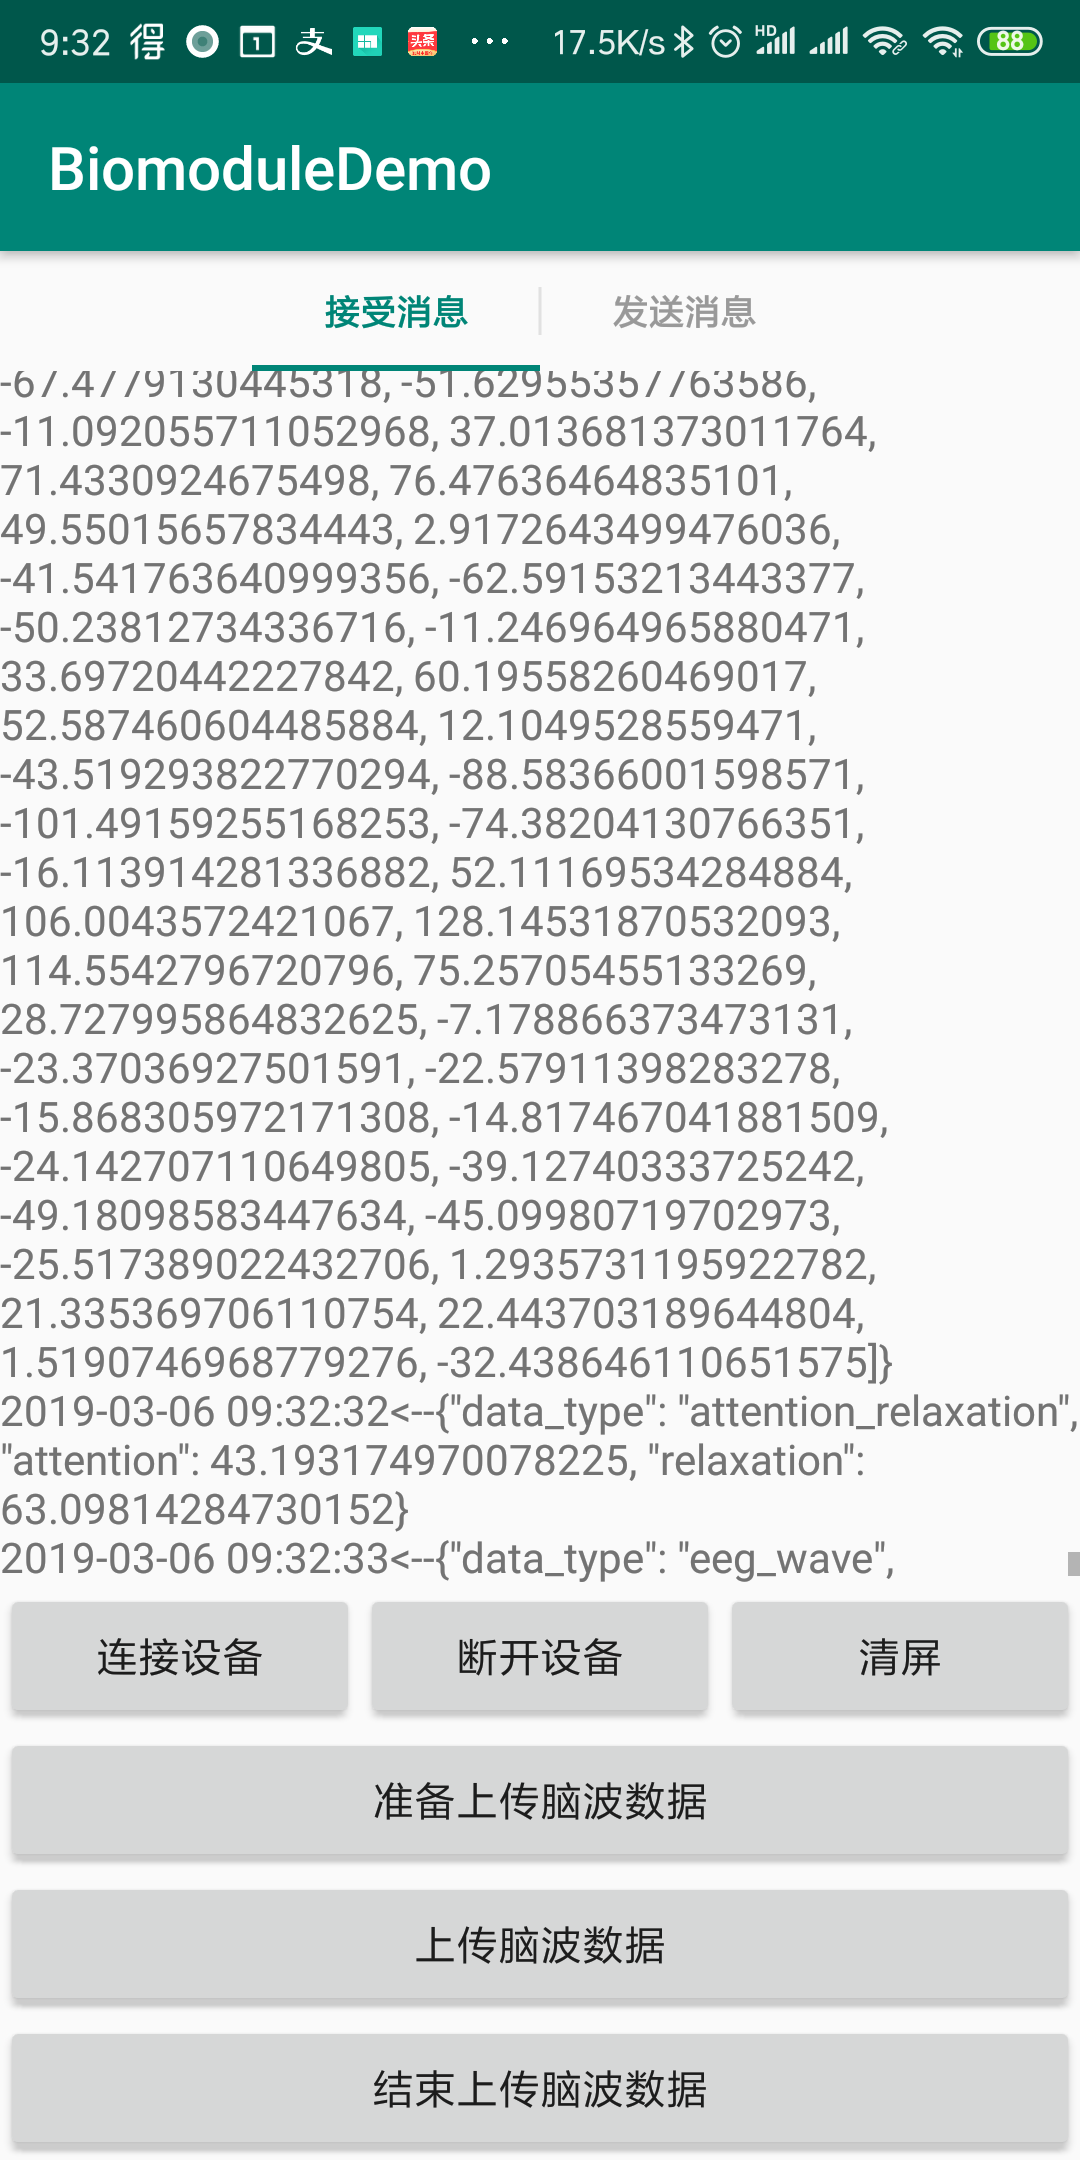
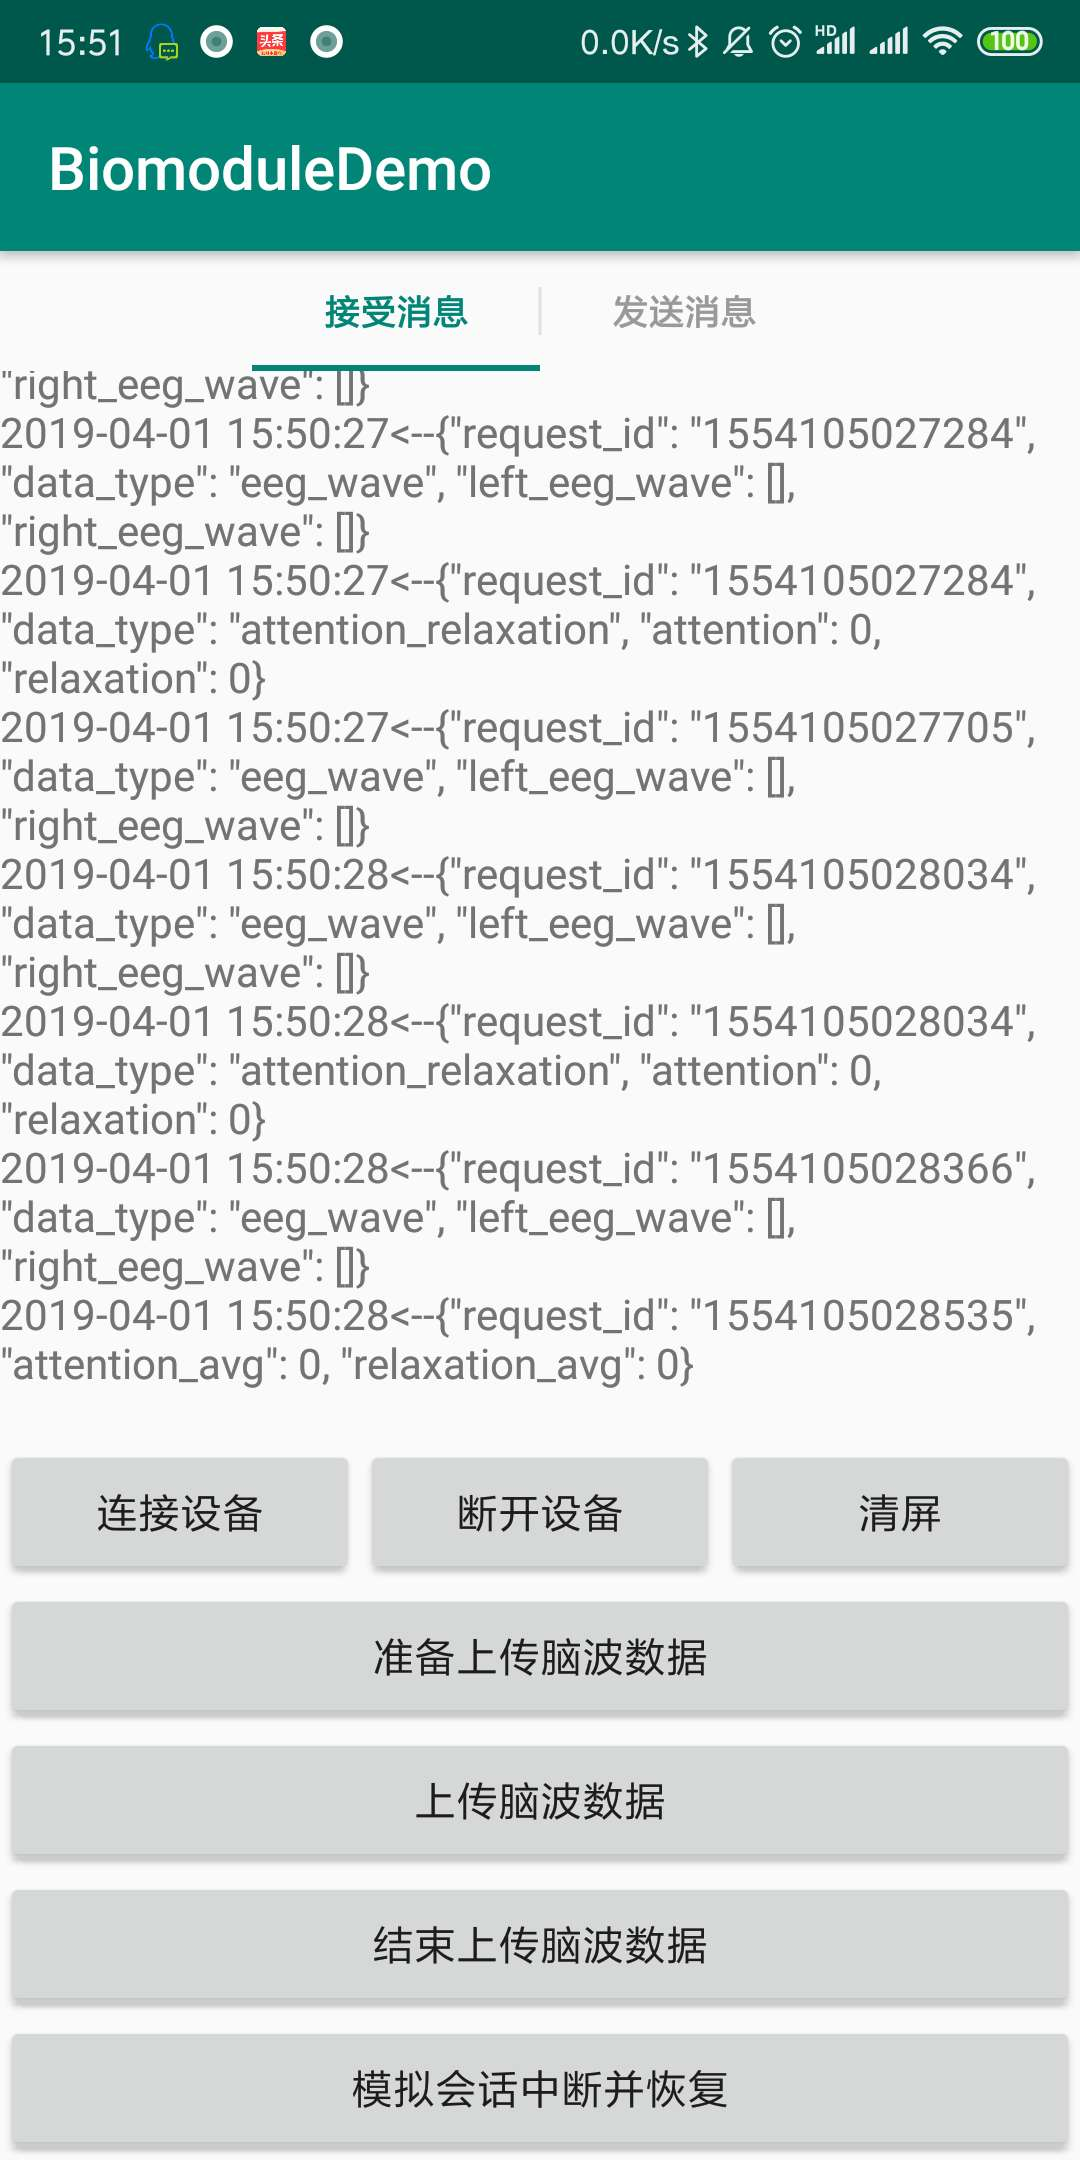
增加会话中断恢复

diff --git a/app/src/main/java/cn/entertech/biomoduledemo/MainActivity.kt b/app/src/main/java/cn/entertech/biomoduledemo/MainActivity.kt
@@ -23,7 +23,7 @@ class MainActivity : AppCompatActivity() {
     private lateinit var messageSendFragment: MessageSendFragment
     lateinit var vpContainer: ViewPager
     lateinit var pagerSlidingTabStrip: PagerSlidingTabStrip
-    lateinit var requestId:String
+    lateinit var sessionId:String
     override fun onCreate(savedInstanceState: Bundle?) {
         super.onCreate(savedInstanceState)
         setContentView(R.layout.activity_main)
@@ -59,6 +59,13 @@ class MainActivity : AppCompatActivity() {
     }
 
     var brainDataCallback = fun(result: String) {
+        if (result.contains("session_id")){
+            var startResponse = Gson().fromJson<StartResponse>(result,StartResponse::class.java)
+            Logger.d("start response is $startResponse")
+            if (startResponse.session_id != null){
+                sessionId = startResponse.session_id
+            }
+        }
         messageReceiveFragment.appendMessageToScreen(result)
     }
 
@@ -89,7 +96,7 @@ class MainActivity : AppCompatActivity() {
             messageReceiveFragment.appendMessageToScreen("扫描设备成功")
             Logger.d("扫描设备成功")
         }, fun(mac: String) {
-
+            flowtimeBleManager.addRawDataListener(rawListener)
             messageReceiveFragment.appendMessageToScreen("连接成功$mac")
             Logger.d("连接成功$mac")
             runOnUiThread {
@@ -105,17 +112,17 @@ class MainActivity : AppCompatActivity() {
     }
 
     fun onDisconnet(view: View) {
+        flowtimeBleManager.removeRawDataListener(rawListener)
         flowtimeBleManager.disConnect()
     }
 
     fun start(view: View) {
-        requestId = "${System.currentTimeMillis()}"
         if (!flowtimeBleManager.isConnected()) {
             Toast.makeText(this, "请先连接设备", Toast.LENGTH_SHORT).show()
             return
         }
         var dataEntity = DataEntity()
-        dataEntity.request_id = requestId
+        dataEntity.request_id = "${System.currentTimeMillis()}"
         dataEntity.command = "start"
         dataEntity.device_id = "A0"
         var json = Gson().toJson(dataEntity)
@@ -128,7 +135,6 @@ class MainActivity : AppCompatActivity() {
             Toast.makeText(this, "请先连接设备", Toast.LENGTH_SHORT).show()
             return
         }
-        flowtimeBleManager.addRawDataListener(rawListener)
         flowtimeBleManager.startBrainCollection()
     }
 
@@ -138,15 +144,29 @@ class MainActivity : AppCompatActivity() {
             return
         }
         flowtimeBleManager.stopBrainCollection()
-        flowtimeBleManager.removeRawDataListener(rawListener)
         var dataEntity = DataEntity()
         dataEntity.command = "finish"
-        dataEntity.request_id = requestId
+        dataEntity.request_id = "${System.currentTimeMillis()}"
         var json = Gson().toJson(dataEntity)
         messageSendFragment.appendMessageToScreen(json + "\r\n")
         socketManager.sendMessage(json)
         socketManager.stopRead()
         socketManager.connectBrainDataSocket()
+    }
+
+    fun restore(view:View){
+        flowtimeBleManager.stopBrainCollection()
+        socketManager.stopRead()
+        socketManager.disconnectBrainSocket()
+        socketManager.connectBrainDataSocket(fun(){
+            var dataEntity = DataEntity()
+            dataEntity.request_id = "${System.currentTimeMillis()}"
+            dataEntity.command = "restore"
+            dataEntity.session_id = sessionId
+            var json = Gson().toJson(dataEntity)
+            messageSendFragment.appendMessageToScreen(json + "\r\n")
+            socketManager.sendMessage(json)
+        })
     }
 
 
@@ -180,7 +200,7 @@ class MainActivity : AppCompatActivity() {
             if (socketBuffer.size >= 600) {
                 var dataEntity = DataEntity()
                 dataEntity.command = "process"
-                dataEntity.request_id = requestId
+                dataEntity.request_id = "${System.currentTimeMillis()}"
                 dataEntity.data = socketBuffer.toIntArray()
                 var json = Gson().toJson(dataEntity)
                 messageSendFragment.appendMessageToScreen(json + "\r\n")

diff --git a/app/src/main/java/cn/entertech/biomoduledemo/SocketManager.kt b/app/src/main/java/cn/entertech/biomoduledemo/SocketManager.kt
@@ -10,7 +10,8 @@ import java.net.Socket
 
 class SocketManager() {
     var mBrainDataSocket: Socket? = null
-    val SOCKET_ADDRESS: String = "api.affectivecloud.com"
+//    val SOCKET_ADDRESS: String = "api.affectivecloud.com"
+    val SOCKET_ADDRESS: String = "test.affectivecloud.com"
     val BRAIN_DATA_SOCKET_PORT: Int = 8080
     var handlerThread: HandlerThread
     var handler: Handler
@@ -41,16 +42,22 @@ class SocketManager() {
     }
 
     fun connectBrainDataSocket() {
+        connectBrainDataSocket(null)
+    }
+
+    fun connectBrainDataSocket(connectSuccess:(()->Unit)?) {
         Thread(Runnable {
             mBrainDataSocket = Socket()
             mBrainDataSocket?.connect(InetSocketAddress(SOCKET_ADDRESS, BRAIN_DATA_SOCKET_PORT))
             Logger.d("socket connect state: " + mBrainDataSocket?.isConnected)
+            if (mBrainDataSocket!!.isConnected){
+                connectSuccess?.invoke()
+            }
             inputStream = mBrainDataSocket?.getInputStream()
             bufferedReader = BufferedReader(InputStreamReader(inputStream))
             isRead = true
             readMessageFromServer()
         }).start()
-
     }
 
     private var isRead = false
@@ -59,14 +66,18 @@ class SocketManager() {
     }
 
     fun readMessageFromServer() {
-        while (isRead) {
-            var result = bufferedReader?.readLine()
-            if (result != null) {
-                brainDataCallback.forEach {
-                    it.invoke(result)
+        try {
+            while (isRead) {
+                var result = bufferedReader?.readLine()
+                if (result != null) {
+                    brainDataCallback.forEach {
+                        it.invoke(result)
+                    }
+                    Logger.d("receive data from server: $result")
                 }
-                Logger.d("receive data from server: $result")
             }
+        }catch (e:Exception){
+           e.printStackTrace()
         }
     }
 
@@ -96,7 +107,9 @@ class SocketManager() {
 
 
     fun disconnectBrainSocket() {
+        mBrainDataSocket?.shutdownInput()
         mBrainDataSocket?.close()
+
     }
 
 }

diff --git a/app/src/main/java/cn/entertech/biomoduledemo/StartResponse.java b/app/src/main/java/cn/entertech/biomoduledemo/StartResponse.java
@@ -1,0 +1,30 @@
+package cn.entertech.biomoduledemo;
+
+public class StartResponse {
+    private String request_id;
+    private String session_id;
+
+    public String getRequest_id() {
+        return request_id;
+    }
+
+    public void setRequest_id(String request_id) {
+        this.request_id = request_id;
+    }
+
+    public String getSession_id() {
+        return session_id;
+    }
+
+    public void setSession_id(String session_id) {
+        this.session_id = session_id;
+    }
+
+    @Override
+    public String toString() {
+        return "StartResponse{" +
+                "request_id='" + request_id + '\'' +
+                ", session_id='" + session_id + '\'' +
+                '}';
+    }
+}

diff --git a/app/src/main/java/cn/entertech/biomoduledemo/DataEntity.java b/app/src/main/java/cn/entertech/biomoduledemo/DataEntity.java
@@ -6,6 +6,7 @@ public class DataEntity {
     private String request_id;
     private String command;
     private String device_id;
+    private String session_id;
     private int[] data;
 
     public String getCommand() {
@@ -49,5 +50,13 @@ public class DataEntity {
 
     public void setRequest_id(String request_id) {
         this.request_id = request_id;
+    }
+
+    public String getSession_id() {
+        return session_id;
+    }
+
+    public void setSession_id(String session_id) {
+        this.session_id = session_id;
     }
 }

diff --git a/README.md b/README.md
@@ -16,6 +16,7 @@
 * 连接设备后，点击 `准备上传脑波数据` 发送 `start` 命令到服务器开启一个会话；
 * 开启会话后可点击`上传脑波数据`进行脑波数据上传；
 * 点击`结束上传脑波数据`可结束当前会话。
+* 点击`模拟会话中断并恢复`可实现模拟socket中断并重新连接，重连后可进行接下来的操作（中断重连超时为5分钟）。
 
 ## 界面交互和展示
 
